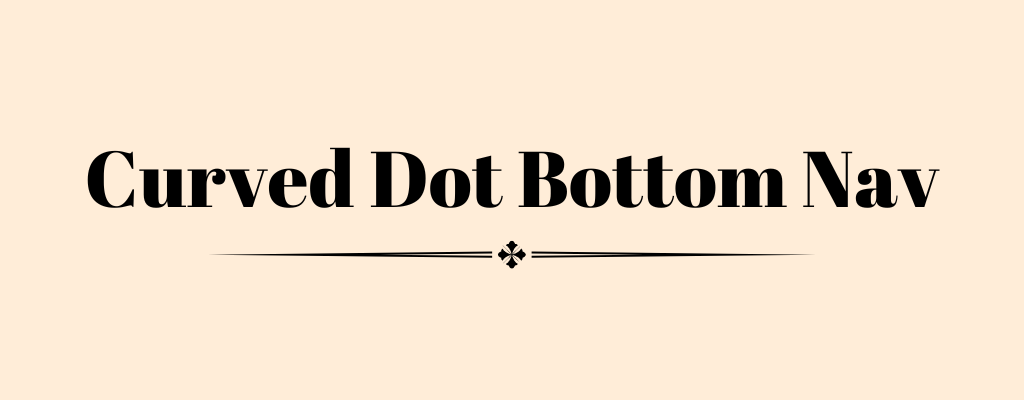
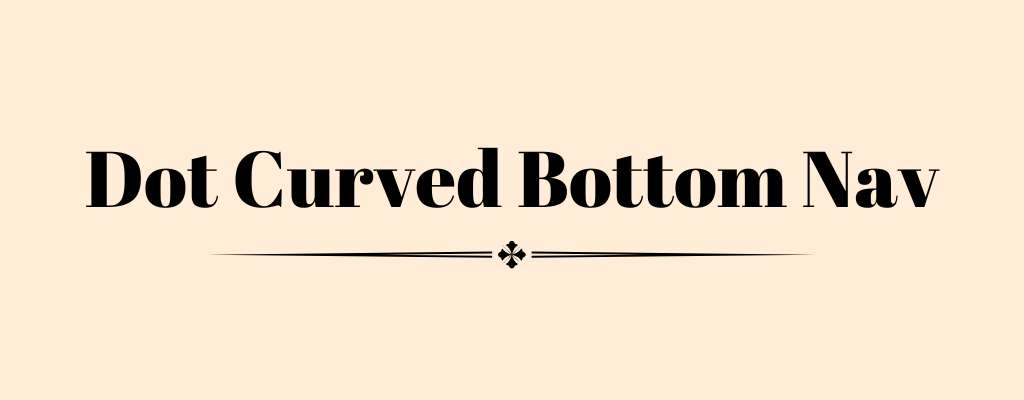
update title image & readme

Changed region(s): [[0.0625, 0.36, 0.5, 0.54]]

diff --git a/README.md b/README.md
@@ -3,7 +3,7 @@
 ![Title Image](https://raw.githubusercontent.com/Muzammil-Bit/dot_curved_bottom_nav/master/docs/Curved%20Dot%20Bottom%20Nav.png)
 
 ## Preview
-![Preview](https://raw.githubusercontent.com/Muzammil-Bit/dot_curved_bottom_nav/master/docs/showcase.gif)
+[![Preview](https://raw.githubusercontent.com/Muzammil-Bit/dot_curved_bottom_nav/master/docs/showcase.gif)](https://pub.dev/packages/dot_curved_bottom_nav "dot_curved_bottom_nav")
 
 ## Optional Hide On Scroll
 ![Preview](https://github.com/Muzammil-Bit/dot_curved_bottom_nav/blob/master/docs/hide-on-scroll-showcase.gif?raw=true)
